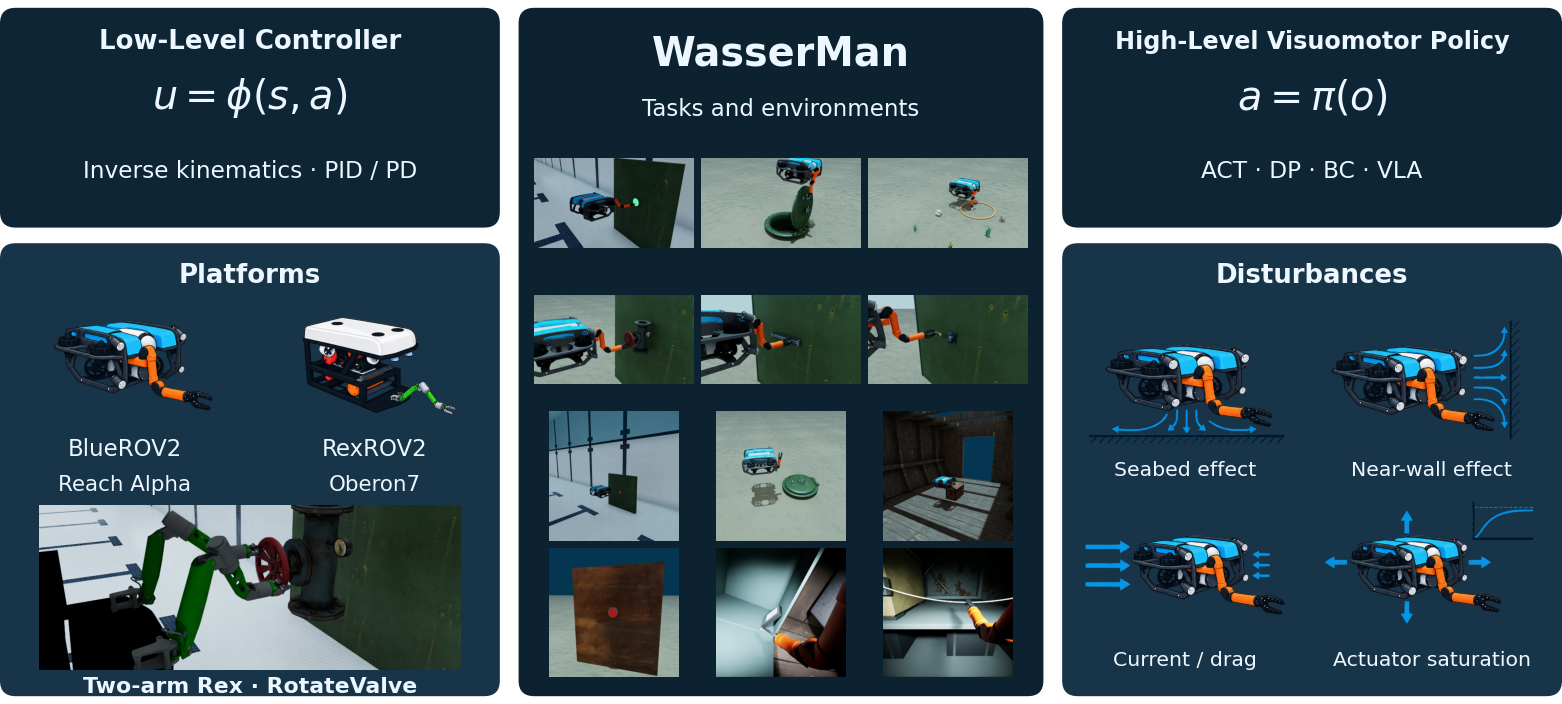
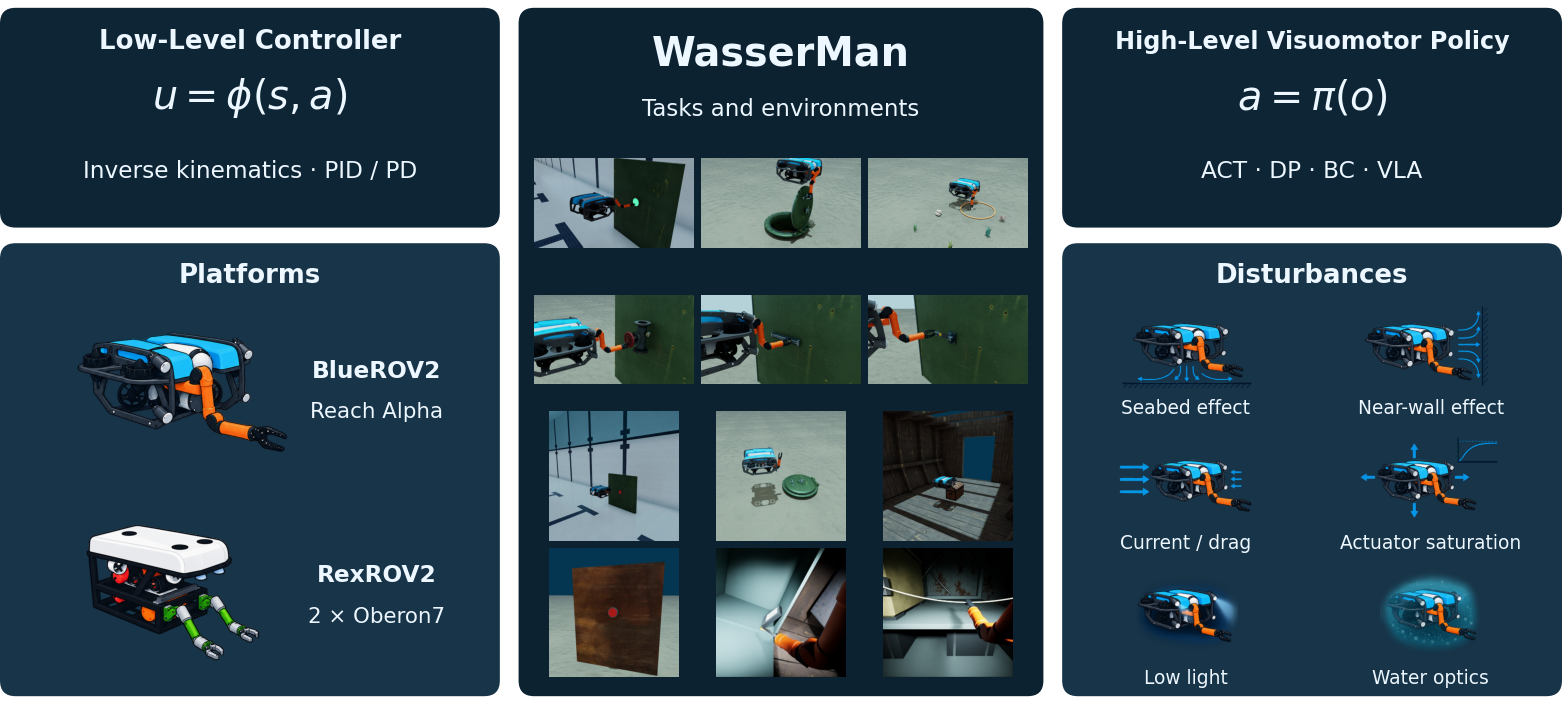
Update WasserMan teaser with twin-arm RexROV2 and visual water effects

diff --git a/scripts/build_website_teaser.py b/scripts/build_website_teaser.py
@@ -1,71 +1,73 @@
-"""Render theme variants from the editable figure, preserving source photographs.
-
-Only the first figure and its existing helpers are evaluated. Publication
-outputs go to the website; the manuscript and archived figures are untouched.
-"""
-
-import ast
+"""Render website themes from the current manuscript teaser without changing it."""
 import hashlib
+import importlib.util
 import json
 from pathlib import Path
+import shutil
+import tempfile
+
+from matplotlib.figure import Figure
 
 ROOT = Path(__file__).resolve().parents[1]
-SOURCE = ROOT / "paper/build_revision_overview.py"
+SOURCE = ROOT / "paper/build_focused_teaser.py"
 DESTINATION = ROOT / "website/src/assets"
+BACKUPS = ROOT.parent / "work/.maintenance/backups"
 PALETTE = {"#dcecf7": "#183448", "#edf5fa": "#0e2536", "#f1f4f6": "#0c2231"}
-
-
-class DarkPanels(ast.NodeTransformer):
-    def visit_Constant(self, node):
-        if isinstance(node.value, str) and node.value in PALETTE:
-            return ast.copy_location(ast.Constant(PALETTE[node.value]), node)
-        return node
+sha = lambda path: hashlib.sha256(path.read_bytes()).hexdigest()
 
 
 def main():
-    content = SOURCE.read_text()
-    helpers, figures = content.split("# Figure 1.", 1)
-    figure, _ = figures.split("# Figure 2.", 1)
-    # The introductory comment belongs to the helper/figure boundary.
-    figure = figure.split("\n", 1)[1]
     DESTINATION.mkdir(parents=True, exist_ok=True)
     variants = {}
+    native = json.loads((ROOT / "paper/revision-v8/figures/teaser-manifest.json").read_text())
+    protected = {name: sha(ROOT / "paper" / name) for name in native["outputs"]}
     for theme in ("light", "dark"):
-        namespace = {"__file__": str(SOURCE)}
-        exec(compile(helpers, str(SOURCE), "exec"), namespace)
-        namespace["plt"].rcParams["svg.hashsalt"] = "wasserman-website-teaser"
+        spec = importlib.util.spec_from_file_location("current_manuscript_teaser", SOURCE)
+        module = importlib.util.module_from_spec(spec)
+        spec.loader.exec_module(module)
+        module.plt.rcParams["svg.hashsalt"] = "wasserman-website-teaser"
         if theme == "dark":
-            namespace["INK"] = "#edf7ff"
-        output = DESTINATION / f"project-overview-{theme}.svg"
+            module.INK = "#edf7ff"
+            original_box = module.box
+            module.box = lambda ax, x, y, w, h, color: original_box(ax, x, y, w, h, PALETTE.get(color, color))
+        original_save = Figure.savefig
 
-        def save(fig, name, output=output, namespace=namespace):
-            if name != "teaser":
-                raise ValueError("Only the website teaser may be rendered")
-            fig.savefig(output, dpi=300, transparent=True, metadata={"Date": None})
+        def save(figure, filename, *args, **kwargs):
+            suffix = Path(filename).suffix
+            if suffix in {".svg", ".png"}:
+                kwargs["transparent"] = True
+                kwargs["dpi"] = 300 if suffix == ".svg" else 220
+                if suffix == ".svg":
+                    kwargs["metadata"] = {"Date": None}
+            return original_save(figure, filename, *args, **kwargs)
+
+        with tempfile.TemporaryDirectory(prefix="website-teaser-", dir=BACKUPS) as temporary:
+            module.OUT = Path(temporary)
+            Figure.savefig = save
+            try:
+                module.main()
+            finally:
+                Figure.savefig = original_save
+            output = DESTINATION / f"project-overview-{theme}.svg"
+            shutil.copy2(module.OUT / "teaser.svg", output)
             output.write_text("\n".join(line.rstrip() for line in output.read_text().splitlines()) + "\n")
-            fig.savefig(output.with_suffix(".png"), dpi=220, transparent=True)
-            namespace["plt"].close(fig)
-
-        namespace["save"] = save
-        tree = ast.parse(figure, filename=str(SOURCE))
-        if theme == "dark":
-            tree = ast.fix_missing_locations(DarkPanels().visit(tree))
-        exec(compile(tree, str(SOURCE), "exec"), namespace)
-        variants[theme] = {"asset": output.name, "sha256": hashlib.sha256(output.read_bytes()).hexdigest()}
-        variants[theme]["github_asset"] = output.with_suffix(".png").name
-        variants[theme]["github_sha256"] = hashlib.sha256(output.with_suffix(".png").read_bytes()).hexdigest()
-    manifest = {
-        "source": str(SOURCE.relative_to(ROOT)),
-        "source_sha256": hashlib.sha256(SOURCE.read_bytes()).hexdigest(),
-        "renderer": "scripts/build_website_teaser.py",
-        "scope": (
-            "Website palette variants of the editable teaser; "
-            "original photographs, viewports, geometry and labels retained"
-        ),
-        "dark_panel_palette": PALETTE,
-        "inputs": namespace["inputs"],
-        "variants": variants,
-    }
+            shutil.copy2(module.OUT / "teaser.png", output.with_suffix(".png"))
+        text = output.read_text()
+        for label in ("2 × Oberon7", "Low light", "Water optics"):
+            assert label in text, label
+        assert "Two-arm Rex" not in text
+        variants[theme] = {"asset": output.name, "sha256": sha(output),
+                           "github_asset": output.with_suffix(".png").name,
+                           "github_sha256": sha(output.with_suffix(".png"))}
+    assert protected == {name: sha(ROOT / "paper" / name) for name in native["outputs"]}
+    manifest = {"source": str(SOURCE.relative_to(ROOT)), "source_sha256": sha(SOURCE),
+                "renderer": "scripts/build_website_teaser.py", "renderer_sha256": sha(Path(__file__)),
+                "scope": "Website themes of the current manuscript teaser; native layout, recorded frames and icon viewports preserved",
+                "dark_panel_palette": PALETTE, "inputs": {"paper/" + name: digest for name, digest in native["inputs"].items()},
+                "canonical_figure": "paper/revision-v8/figures/teaser.pdf",
+                "canonical_figure_sha256": protected["revision-v8/figures/teaser.pdf"],
+                "platforms": native["platforms"], "disturbances": native["disturbances"],
+                "removed_from_layout": native["removed_from_layout"], "variants": variants}
     (DESTINATION / "project-overview-themes.json").write_text(json.dumps(manifest, indent=2) + "\n")
     print(json.dumps(variants, indent=2))
 

diff --git a/README.md b/README.md
@@ -9,7 +9,7 @@
   <picture>
     <source media="(prefers-color-scheme: dark)" srcset="assets/teaser-dark.png">
     <source media="(prefers-color-scheme: light)" srcset="assets/teaser-light.png">
-    <img src="assets/teaser-light.png" width="100%" alt="WasserMan overview: robots, tasks, policies and underwater physics." />
+    <img src="assets/teaser-light.png" width="100%" alt="WasserMan overview: control, BlueROV2 and twin-arm RexROV2, tasks, policies, physical disturbances, low light and water optics." />
   </picture>
 </p>
 
